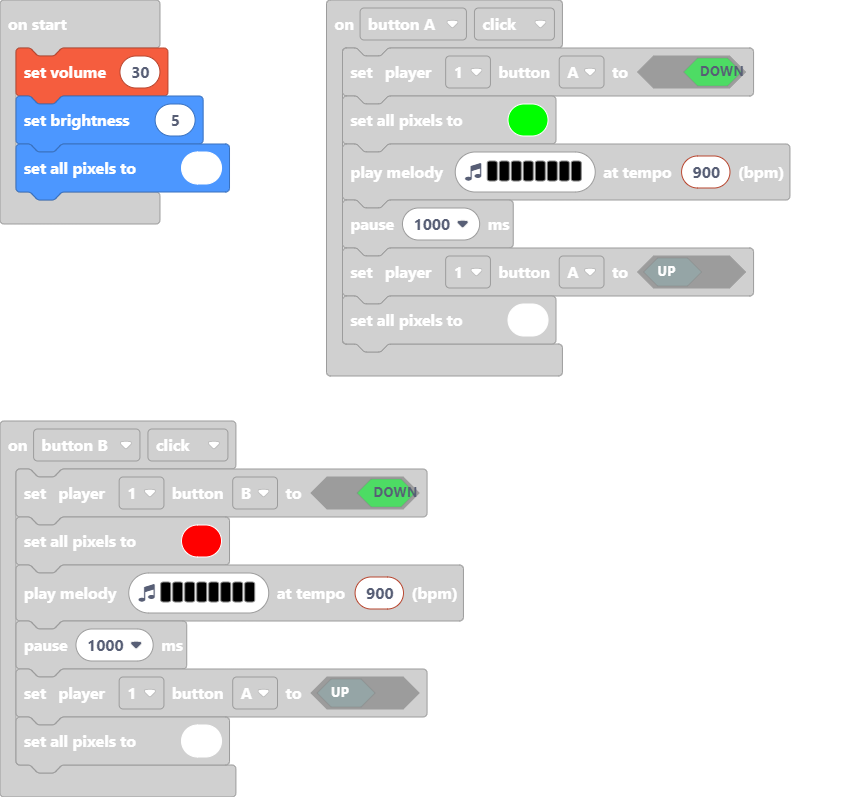
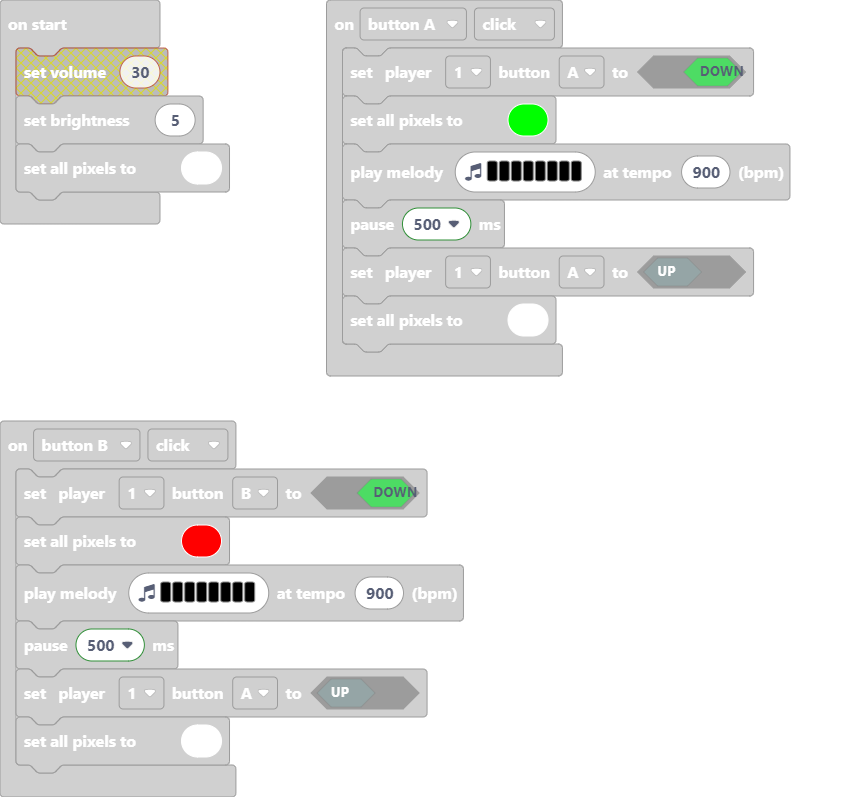
Update main.blocks, main.ts

Changed region(s): [[0.0, 0.0602, 0.2779, 0.271], [0.0926, 0.7829, 0.247, 0.8432], [0.4941, 0.2409, 0.6176, 0.3312]]

diff --git a/main.ts b/main.ts
@@ -23,7 +23,7 @@ input.buttonA.onEvent(ButtonEvent.Click, function () {
     makerController.player1.setButton(ArcadeButton.A, true)
     light.setAll(0x00ff00)
     music.playMelody("G - A - - - - - ", 900)
-    pause(1000)
+    pause(500)
     makerController.player1.setButton(ArcadeButton.A, false)
     light.setAll(0xffffff)
 })
@@ -36,11 +36,10 @@ input.buttonB.onEvent(ButtonEvent.Click, function () {
     makerController.player1.setButton(ArcadeButton.B, true)
     light.setAll(0xff0000)
     music.playMelody("G - A - - - - - ", 900)
-    pause(1000)
+    pause(500)
     makerController.player1.setButton(ArcadeButton.A, false)
     light.setAll(0xffffff)
 })
-music.setVolume(30)
 light.setBrightness(5)
 light.setAll(0xffffff)
 forever(function () {
